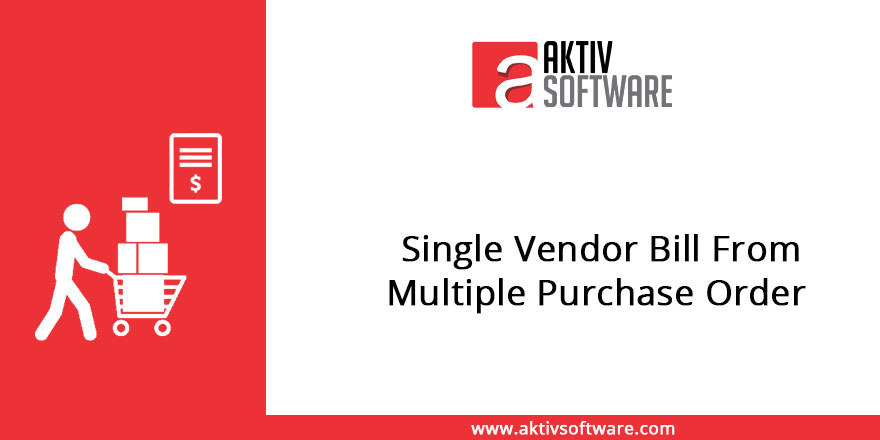
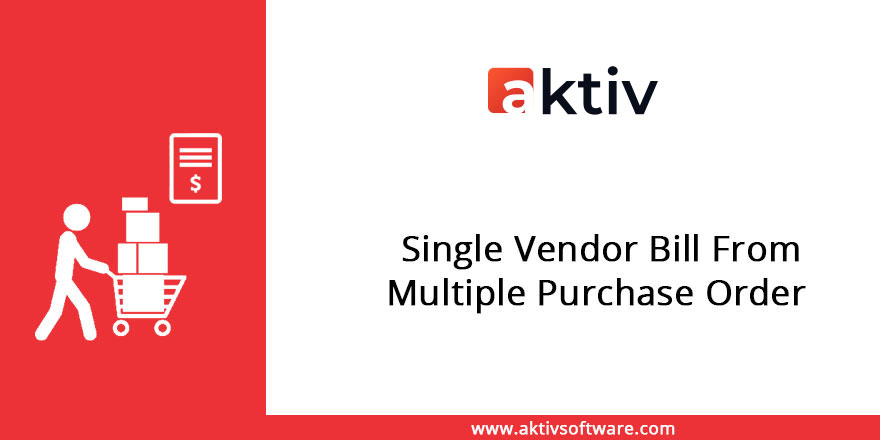
[ADD] change image in 11.0

Changed region(s): [[0.5216, 0.0886, 0.767, 0.2659]]

diff --git a/single_vendorbill_purchase/static/description/index.html b/single_vendorbill_purchase/static/description/index.html
@@ -98,7 +98,7 @@
     <div class="oe_row oe_spaced">
         <h2 class="oe_slogan">
             <a href="http://aktivsoftware.com/" target="new">
-                <img src="http://aktivsoftware.com/wp-content/uploads/2018/01/logo-1.png"/>
+                <img src="aktiv-logo.png"/>
             </a>
             <br/>
             <a href="mailto:sales@aktivsoftware.com" style="color: #000000 !important;">
